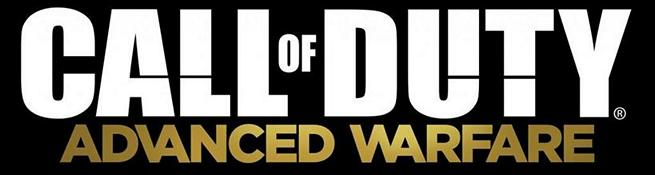
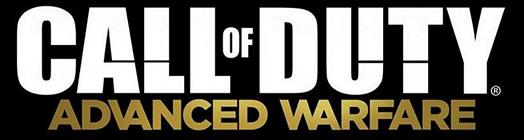
S1 changes

diff --git a/alterwarez/index.html b/alterwarez/index.html
@@ -321,10 +321,7 @@
 </table>
 <br clear="all">
     </div>
-
-
-
-
+    <br><br>
     <span style="font-family: MS Gothic;"><br>
     <style>
       .img-container {
@@ -333,7 +330,7 @@
       }
     </style>
      <span class="img-container"> <!-- Inline parent element -->
-<img alt="IW5" src="s1.jpg" style="width: 20%; height: 20%;"></span>
+<img alt="IW5" src="s1.jpg" style="width: 17%; height: 17%;"></span>
 <br clear="all">
 <table border="1" cellpadding="2" cellspacing="2" style="text-align: left; width: 1361px; height: 62px; margin-left: auto; margin-right: auto;">
         <tbody>
@@ -366,9 +363,6 @@
 </table>
 <br clear="all">
         </div>
-
-
-
 
     <div alink="#ff9900" link="#33ff33" style="color: white; background-color: black;" vlink="red">
 <div style="text-align: center; font-family: Modern;">
